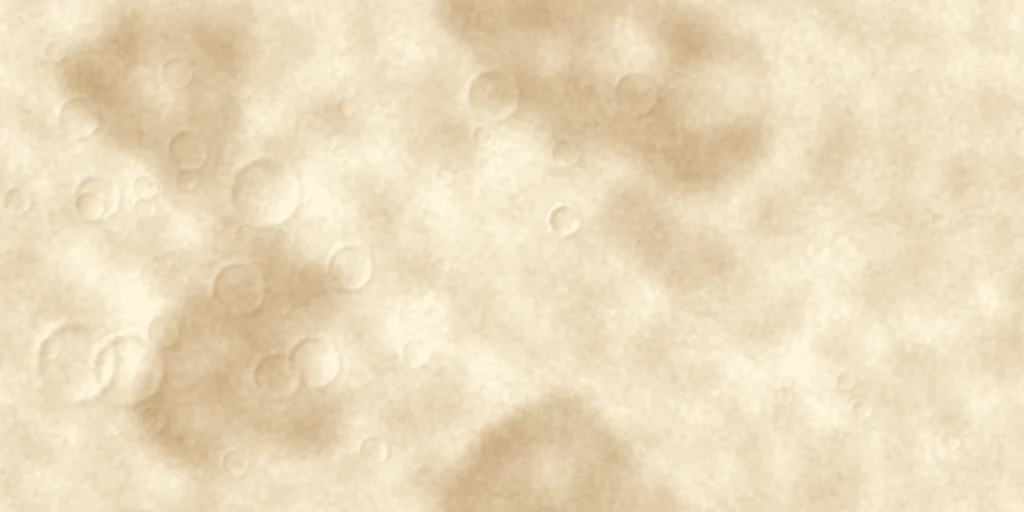
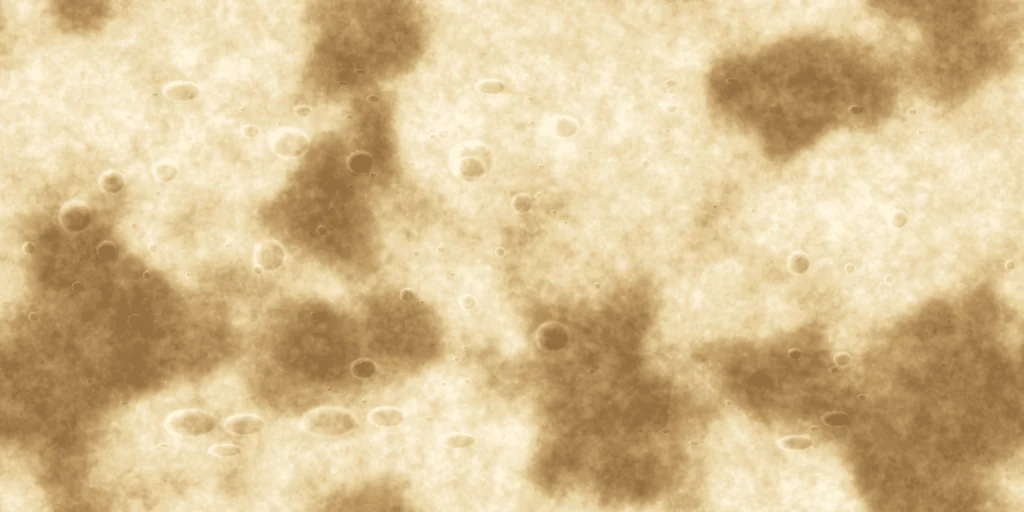
Золотая лента разматывается при прокрутке и закручивается в световую ёлку; луна — вращающийся шар
Claude-Session: https://claude.ai/code/session_0155u3ZyEfwAY5x24SDFsgDT

diff --git a/index.html b/index.html
@@ -281,6 +281,11 @@ footer{padding:36px 0 110px;font-size:14px;color:#7a525a}
 footer nav{display:flex;flex-wrap:wrap;gap:8px 22px;margin-bottom:10px}
 
 /* flying sleigh and the hidden golden goat */
+.rbn{position:fixed;left:0;top:0;pointer-events:none;z-index:-1}.rbn.f{z-index:5}
+.moon .mc{position:absolute;inset:0;width:100%;height:100%;display:block}
+.tree{position:absolute;bottom:70px;right:max(8px,calc(50% - 400px));width:clamp(116px,24vw,240px);height:clamp(240px,48vw,450px);z-index:3;pointer-events:none}
+.tree.l{right:auto;left:max(8px,calc(50% - 400px))}
+@media (max-width:700px){.moonbox .moon{transition:left .4s}.moonbox.tl .moon{left:63%}.moonbox.tr .moon{left:37%}}
 #sky{position:fixed;inset:0;width:100%;height:100%;pointer-events:none;z-index:6}
 .goat{position:absolute;left:0;top:0;width:44px;height:80px;padding:0;margin:0;border:0;background:none;cursor:pointer;z-index:3;transform-origin:22px 0;will-change:transform;-webkit-tap-highlight-color:transparent}
 .goat i{position:absolute;left:21.5px;top:0;width:1px;background:linear-gradient(#B8935A,#C9A464)}
@@ -353,6 +358,7 @@ footer nav{display:flex;flex-wrap:wrap;gap:8px 22px;margin-bottom:10px}
 </style>
 </head>
 <body>
+<canvas id="ribbonB" class="rbn" aria-hidden="true"></canvas><canvas id="ribbonF" class="rbn f" aria-hidden="true"></canvas>
 <canvas id="garland" aria-hidden="true"></canvas>
 <button class="goat" id="goat" type="button" aria-label="Секрет: золотая козочка" hidden><i></i><img src="assets/goat.webp" alt="" width="240" height="222"><svg viewBox="0 0 20 20" aria-hidden="true"><path d="M10 0Q10 10 20 10Q10 10 10 20Q10 10 0 10Q10 10 10 0Z" fill="#FFF6D6"/></svg></button>
 <header>
@@ -501,7 +507,8 @@ footer nav{display:flex;flex-wrap:wrap;gap:8px 22px;margin-bottom:10px}
   <section class="night" id="night">
     <canvas class="stars" id="stars" aria-hidden="true"></canvas>
     <div class="moonbox" aria-hidden="true">
-      <div class="moon" data-d="-.12"><i class="tex"></i></div>
+      <div class="moon" data-d="-.12"><canvas class="mc" width="320" height="320"></canvas></div>
+      <canvas class="tree" id="tree" aria-hidden="true"></canvas>
       <canvas id="moonsky"></canvas>
     </div>
     <div class="price">
@@ -951,6 +958,205 @@ var OPEN=[0, 1, 3, 5, 7, 9, 11, 13, 15, 17, 19, 21];
 
   var st=document.getElementById('sticky'), hero=document.querySelector('.hero');
   if('IntersectionObserver' in window){ new IntersectionObserver(function(es){ es.forEach(function(e){ st.classList.toggle('show',!e.isIntersecting); }); },{threshold:0}).observe(hero); }
+})();
+</script>
+<script>/* «Целый мир»: a gold satin ribbon unrolls from the gift box as you scroll, weaving behind the
+   cards and in front of the gaps, and in the night finale winds itself into a spiral tree of light.
+   Plus a moon rendered as a real rotating sphere. */
+(function(){
+  var reduce=window.matchMedia&&matchMedia('(prefers-reduced-motion: reduce)').matches;
+  var DPR=Math.min(2,window.devicePixelRatio||1);
+  var cb=document.getElementById('ribbonB'), cf=document.getElementById('ribbonF');
+  var bx=cb.getContext('2d'), fx=cf.getContext('2d');
+  var tree=document.getElementById('tree');
+  var VW=0, VH=0, X=[], Y=[], S=[], F=[], MY=[], N=0, Wd=14, head=0, lastHead=0, done=false, P=[], pending=true;
+  var FRONT=[], BACK=[];
+  (function(){ function lut(a,b,c,n){ var o=[]; for(var i=0;i<n;i++){ var t=i/(n-1), p=t<.5?t*2:(t-.5)*2, A=t<.5?a:b, B=t<.5?b:c;
+      o.push('rgb('+Math.round(A[0]+(B[0]-A[0])*p)+','+Math.round(A[1]+(B[1]-A[1])*p)+','+Math.round(A[2]+(B[2]-A[2])*p)+')'); } return o; }
+    FRONT=lut([150,108,52],[226,192,124],[255,246,218],48); BACK=lut([104,70,30],[166,126,68],[212,176,112],48); })();
+
+  function rect(el){ var r=el.getBoundingClientRect(); return {l:r.left, r:r.right, t:r.top+scrollY, b:r.bottom+scrollY, w:r.width, h:r.height}; }
+  function contentBox(sec){ var kids=sec.children, t=1e9, b=-1e9; for(var i=0;i<kids.length;i++){ var r=kids[i].getBoundingClientRect(); if(!r.height) continue; t=Math.min(t,r.top+scrollY); b=Math.max(b,r.bottom+scrollY); } return {t:t,b:b}; }
+
+  function build(){
+    VW=document.documentElement.clientWidth; VH=innerHeight;
+    [cb,cf].forEach(function(c){ c.width=VW*DPR; c.height=VH*DPR; c.style.width=VW+'px'; c.style.height=VH+'px'; });
+    bx.setTransform(DPR,0,0,DPR,0,0); fx.setTransform(DPR,0,0,DPR,0,0);
+    var gut=Math.max(0,(VW-1120)/2)+20, gx=Math.max(10,Math.min(gut*.5,90));
+    Wd=Math.max(11,Math.min(26,gut*.42));
+    var L=gx, R=VW-gx, side=L, wp=[];
+    var box=rect(document.getElementById('case'));
+    var cx=box.l+box.w/2;
+    wp.push([cx,box.b-6,0],[cx,box.b+14,0]);
+    var secs=[].slice.call(document.querySelectorAll('main > section')).filter(function(s){ return s.id!=='night'; });
+    var night=document.getElementById('night');
+    side=cx<VW/2?L:R;
+    var hero=contentBox(document.querySelector('.hero'));
+    wp.push([cx+(side-cx)*.55, box.b+34,0],[side, box.b+78,0],[side, Math.max(box.b+120,hero.b-20),0]);
+    var loopR=Math.max(18,Math.min(40,gut*.45));
+    secs.forEach(function(sec,i){
+      var cbx=contentBox(sec), next=secs[i+1]||night, nb=next===night?{t:rect(night).t+120}:contentBox(next);
+      wp.push([side,cbx.t+10,0],[side,cbx.b-10,0]);
+      var g0=cbx.b, g1=nb.t, gm=(g0+g1)/2, other=side===L?R:L, dir=side===L?1:-1;
+      wp.push([side,g0+ (g1-g0)*.18,1]);
+      if(i%2===0){ // a curl of ribbon before it crosses
+        var c0=side+dir*loopR*.9, cy0=g0+(g1-g0)*.42;
+        c0=side+dir*loopR;
+        for(var k=1;k<=10;k++){ var ph=dir>0?Math.PI-k/10*6.2832:k/10*6.2832; wp.push([c0+Math.cos(ph)*loopR, cy0+Math.sin(ph)*loopR*.8,1]); }
+      }
+      wp.push([(side+other)/2, gm+ (g1-g0)*.12,1],[other,g0+(g1-g0)*.82,1]);
+      side=other;
+    });
+    var nr=rect(night);
+    tree.classList.toggle('l',side===L); tree.parentNode.classList.toggle('tl',side===L); tree.parentNode.classList.toggle('tr',side!==L);
+    var tr=rect(tree), tb=[tr.l+tr.w/2, tr.b-tr.h*.04];
+    wp.push([side,nr.t+150,1],[side,tb[1]-40,1],[tb[0]+(side-tb[0])*.4,tb[1]+3,1],[tb[0],tb[1],1]);
+    // centripetal Catmull-Rom, then resample every 3px
+    var dense=[];
+    for(var i=0;i<wp.length-1;i++){ var p0=wp[Math.max(0,i-1)], p1=wp[i], p2=wp[i+1], p3=wp[Math.min(wp.length-1,i+2)], f=p1[2]&&p2[2]?1:0;
+      for(var s=0;s<14;s++){ var t=s/14, t2=t*t, t3=t2*t;
+        var x=.5*((2*p1[0])+(-p0[0]+p2[0])*t+(2*p0[0]-5*p1[0]+4*p2[0]-p3[0])*t2+(-p0[0]+3*p1[0]-3*p2[0]+p3[0])*t3);
+        var y=.5*((2*p1[1])+(-p0[1]+p2[1])*t+(2*p0[1]-5*p1[1]+4*p2[1]-p3[1])*t2+(-p0[1]+3*p1[1]-3*p2[1]+p3[1])*t3);
+        dense.push([x,y,f]); } }
+    dense.push(wp[wp.length-1]);
+    X=[];Y=[];S=[];F=[];MY=[]; var acc=0, px=dense[0][0], py=dense[0][1], carry=0;
+    X.push(px);Y.push(py);S.push(0);F.push(dense[0][2]);
+    for(var j=1;j<dense.length;j++){ var dx=dense[j][0]-px, dy=dense[j][1]-py, d=Math.hypot(dx,dy); if(!d) continue;
+      var u=3-carry; while(u<=d){ X.push(px+dx*u/d); Y.push(py+dy*u/d); acc+=3; S.push(acc); F.push(dense[j][2]); u+=3; }
+      carry=d-(u-3); px=dense[j][0]; py=dense[j][1]; }
+    N=X.length; var m=-1e9; for(var q=0;q<N;q++){ m=Math.max(m,Y[q]); MY.push(m); }
+    draw(true);
+  }
+
+  function headIndex(){ if(reduce) return N-1; var hy=scrollY+VH*(VW<700?.78:.72), lo=0, hi=N-1; while(lo<hi){ var md=(lo+hi+1)>>1; if(MY[md]<=hy) lo=md; else hi=md-1; } return lo; }
+
+  function quads(ctx,front,sy,shadow){
+    var top=sy-80, bot=sy+VH+80; if(shadow) ctx.beginPath();
+    for(var i=0;i<head;i++){ if(F[i]!==front) continue; var y0=Y[i], y1=Y[i+1]; if((y0<top&&y1<top)||(y0>bot&&y1>bot)) continue;
+      var dx=X[i+1]-X[i], dy=Y[i+1]-Y[i], l=Math.hypot(dx,dy)||1, nx=-dy/l, ny=dx/l, tx=dx/l*.7, ty=dy/l*.7;
+      var tw=S[i]/92, c=Math.cos(tw), hw=Wd*.5*(.16+.84*Math.abs(c)), tw2=S[i+1]/92, hw2=Wd*.5*(.16+.84*Math.abs(Math.cos(tw2)));
+      var ox=shadow?2.5:0, oy=shadow?6:0;
+      if(!shadow) ctx.beginPath(); ctx.moveTo(X[i]+nx*hw-tx+ox,y0+ny*hw-ty-sy+oy); ctx.lineTo(X[i+1]+nx*hw2+tx+ox,y1+ny*hw2+ty-sy+oy);
+      ctx.lineTo(X[i+1]-nx*hw2+tx+ox,y1-ny*hw2+ty-sy+oy); ctx.lineTo(X[i]-nx*hw-tx+ox,y0-ny*hw-ty-sy+oy); ctx.closePath();
+      if(!shadow){ var lum=.5+.5*Math.sin(tw*1.3+Math.atan2(dy,dx)*.35), k=Math.max(0,Math.min(47,Math.round(lum*47))); ctx.fillStyle=(c>0?FRONT:BACK)[k]; }
+      if(!shadow) ctx.fill(); }
+    if(shadow) ctx.fill();
+  }
+
+  function spool(ctx,sy,t){ var i=head; if(i<1||i>=N-1) return; var x=X[i], y=Y[i]-sy, r=Wd*.62, a=S[i]/r;
+    ctx.save(); ctx.translate(x,y);
+    var g=ctx.createRadialGradient(-r*.35,-r*.35,r*.1,0,0,r); g.addColorStop(0,'#fff6dc'); g.addColorStop(.55,'#d9b878'); g.addColorStop(1,'#8f6a35');
+    ctx.fillStyle=g; ctx.beginPath(); ctx.arc(0,0,r,0,6.283); ctx.fill();
+    ctx.strokeStyle='rgba(110,78,34,.55)'; ctx.lineWidth=.8; ctx.beginPath();
+    for(var k=0;k<=40;k++){ var u=k/40, rr=r*(.15+.8*u), an=a+u*12.5; ctx.lineTo(Math.cos(an)*rr,Math.sin(an)*rr); } ctx.stroke();
+    var gl=ctx.createRadialGradient(0,0,0,0,0,r*3.2); gl.addColorStop(0,'rgba(255,236,190,.55)'); gl.addColorStop(1,'rgba(255,236,190,0)');
+    ctx.fillStyle=gl; ctx.beginPath(); ctx.arc(0,0,r*3.2,0,6.283); ctx.fill();
+    ctx.restore(); }
+
+  function emit(from,to){ var n=Math.min(40,to-from); for(var k=0;k<n;k++){ var i=Math.floor(from+(to-from)*Math.random()); if(i>=N) continue;
+      P.push({x:X[i]+(Math.random()-.5)*Wd, y:Y[i]+(Math.random()-.5)*Wd, vx:(Math.random()-.5)*16, vy:-8+Math.random()*10, life:0, max:1.1+Math.random()*1.3, r:.7+Math.random()*1.8, star:Math.random()<.18, ph:Math.random()*6}); } }
+
+  var lt=0;
+  function particles(ctx,sy,t){ var dt=lt?Math.min(.05,(t-lt)/1000):.016; lt=t;
+    for(var i=P.length-1;i>=0;i--){ var p=P[i]; p.life+=dt; if(p.life>p.max){ P.splice(i,1); continue; }
+      p.vy+=22*dt; p.x+=p.vx*dt; p.y+=p.vy*dt; var a=(1-p.life/p.max)*(.55+.45*Math.sin(t/90+p.ph)), y=p.y-sy;
+      if(y<-20||y>VH+20) continue;
+      ctx.globalAlpha=Math.max(0,a);
+      if(p.star){ ctx.strokeStyle='#fff3cf'; ctx.lineWidth=1; var s=p.r*3; ctx.beginPath(); ctx.moveTo(p.x-s,y); ctx.lineTo(p.x+s,y); ctx.moveTo(p.x,y-s); ctx.lineTo(p.x,y+s); ctx.stroke(); }
+      ctx.fillStyle=i%3?'#d8b25e':'#fff1c6'; ctx.beginPath(); ctx.arc(p.x,y,p.r,0,6.283); ctx.fill(); }
+    ctx.globalAlpha=1; }
+
+  var dirty=true, raf=0;
+  function draw(force){ if(force) dirty=true; if(!raf) raf=requestAnimationFrame(frame); }
+  function frame(t){ raf=0; var sy=scrollY;
+    head=Math.max(1,headIndex());
+    if(!reduce&&head>lastHead+1) emit(lastHead,head);
+    var moved=head!==lastHead; lastHead=head;
+    if(dirty||moved){ bx.clearRect(0,0,VW,VH); bx.fillStyle='rgba(78,12,24,.07)'; quads(bx,0,sy,true); quads(bx,0,sy,false); }
+    fx.clearRect(0,0,VW,VH); fx.fillStyle='rgba(78,12,24,.07)'; quads(fx,1,sy,true); quads(fx,1,sy,false);
+    if(head<N-1&&!reduce) spool(F[head]?fx:bx,sy,t);
+    particles(fx,sy,t);
+    dirty=false;
+    if(head>=N-1&&!done){ done=true; if(window.__treeGo) window.__treeGo(); }
+    if(P.length) draw();
+  }
+
+  var rt=0; function rebuild(){ clearTimeout(rt); rt=setTimeout(build,120); }
+  addEventListener('scroll',function(){ dirty=true; draw(); },{passive:true});
+  addEventListener('resize',rebuild);
+  addEventListener('load',rebuild);
+  if(document.fonts&&document.fonts.ready) document.fonts.ready.then(rebuild);
+  if('ResizeObserver' in window){ var lastH=0; new ResizeObserver(function(){ var h=document.body.scrollHeight; if(Math.abs(h-lastH)>4){ lastH=h; rebuild(); } }).observe(document.body); }
+  build();
+})();
+
+/* spiral tree of light in the night finale */
+(function(){
+  var c=document.getElementById('tree'), x=c.getContext('2d'), DPR=Math.min(2,window.devicePixelRatio||1);
+  var reduce=window.matchMedia&&matchMedia('(prefers-reduced-motion: reduce)').matches;
+  var w=0,h=0, G=[], vis=false, pg=reduce?1:0, start=0, starT=0, raf=0;
+  function size(){ var r=c.getBoundingClientRect(); w=r.width; h=r.height; c.width=w*DPR; c.height=h*DPR; x.setTransform(DPR,0,0,DPR,0,0);
+    G=[]; var n=w<160?190:340; for(var i=0;i<n;i++){ var u=Math.pow(Math.random(),1.5); G.push({u:u, a:Math.random()*6.283, k:.72+Math.random()*.42, r:.4+Math.random()*1.5, ph:Math.random()*6.283, sp:1+Math.random()*3, st:Math.random()<.08}); } }
+  function geo(u,rot){ var base=h*.93, apex=h*.1, R=w*.45, turns=6.2, y=base-u*(base-apex), r=R*Math.pow(1-u,1.02), th=u*turns*6.283+rot;
+    return [w/2+r*Math.cos(th), y+r*Math.sin(th)*.17, Math.sin(th), r]; }
+  window.__treeGo=function(){ if(!start&&pg<1) start=performance.now(); kick(); };
+  function kick(){ if(!raf&&vis) raf=requestAnimationFrame(f); }
+  function f(t){ raf=0; if(!vis) return; x.clearRect(0,0,w,h);
+    if(start&&pg<1){ var p=Math.min(1,(t-start)/3400); pg=p<.5?2*p*p:1-Math.pow(-2*p+2,2)/2; if(pg>=1&&!starT) starT=t; }
+    if(reduce&&!starT) starT=t;
+    var rot=reduce?0:t/1000*.42;
+    x.globalCompositeOperation='lighter';
+    // light pool at the base
+    var pool=x.createRadialGradient(w/2,h*.93,0,w/2,h*.93,w*.6); pool.addColorStop(0,'rgba(255,200,120,'+(.28*Math.min(1,pg*3))+')'); pool.addColorStop(1,'rgba(255,200,120,0)');
+    x.fillStyle=pool; x.save(); x.translate(w/2,h*.93); x.scale(1,.28); x.translate(-w/2,-h*.93); x.beginPath(); x.arc(w/2,h*.93,w*.6,0,6.283); x.fill(); x.restore();
+    // the ribbon of light, back half first
+    var steps=Math.floor(560*pg);
+    for(var pass=0;pass<2;pass++){
+      for(var i=1;i<=steps;i++){ var u0=(i-1)/560, u1=i/560, A=geo(u0,rot), B=geo(u1,rot), front=B[2]>0; if((pass===0)===front) continue;
+        var wid=(1+3.4*(1-u1))*(.4+.6*Math.abs(Math.cos(u1*38))), al=front?1:.32;
+        x.strokeStyle='rgba(255,176,90,'+(.07*al)+')'; x.lineWidth=wid*6; x.beginPath(); x.moveTo(A[0],A[1]); x.lineTo(B[0],B[1]); x.stroke();
+        x.strokeStyle='rgba(255,206,140,'+(.22*al)+')'; x.lineWidth=wid*2.2; x.stroke();
+        x.strokeStyle='rgba(255,244,214,'+(.9*al)+')'; x.lineWidth=Math.max(.6,wid*.7); x.stroke(); } }
+    // glitter
+    for(var g=0;g<G.length;g++){ var q=G[g]; if(q.u>pg) continue; var base=h*.93, apex=h*.1, y=base-q.u*(base-apex), r=w*.45*Math.pow(1-q.u,1.02)*q.k, th=q.a+rot, gz=Math.sin(th);
+      var gx=w/2+r*Math.cos(th), gy=y+r*gz*.17, tw=.35+.65*Math.abs(Math.sin(t/1000*q.sp+q.ph)), al=(gz>0?1:.35)*tw;
+      x.fillStyle='rgba(255,226,160,'+al+')'; x.beginPath(); x.arc(gx,gy,q.r,0,6.283); x.fill();
+      if(q.st&&gz>0){ x.strokeStyle='rgba(255,246,220,'+(al*.8)+')'; x.lineWidth=.7; var s=q.r*4*tw; x.beginPath(); x.moveTo(gx-s,gy); x.lineTo(gx+s,gy); x.moveTo(gx,gy-s); x.lineTo(gx,gy+s); x.stroke(); } }
+    // racing spark while it winds up
+    if(pg>0&&pg<1){ var H=geo(pg,rot), hg=x.createRadialGradient(H[0],H[1],0,H[0],H[1],14); hg.addColorStop(0,'rgba(255,250,230,1)'); hg.addColorStop(1,'rgba(255,200,120,0)'); x.fillStyle=hg; x.beginPath(); x.arc(H[0],H[1],14,0,6.283); x.fill(); }
+    // star on top
+    if(starT){ var e=Math.min(1,(t-starT)/700), sc=(1-Math.pow(1-e,3))*(1+.08*Math.sin(t/420)), sx=w/2, sy=h*.07, R=Math.min(w*.11,16)*sc;
+      var sg=x.createRadialGradient(sx,sy,0,sx,sy,R*4); sg.addColorStop(0,'rgba(255,236,190,.7)'); sg.addColorStop(1,'rgba(255,200,120,0)'); x.fillStyle=sg; x.beginPath(); x.arc(sx,sy,R*4,0,6.283); x.fill();
+      x.save(); x.translate(sx,sy); x.rotate(Math.sin(t/1600)*.15); x.fillStyle='rgba(255,240,200,.95)'; x.beginPath();
+      for(var k=0;k<10;k++){ var an=-Math.PI/2+k*Math.PI/5, rr=k%2?R*.42:R; x.lineTo(Math.cos(an)*rr,Math.sin(an)*rr); } x.closePath(); x.fill(); x.restore(); }
+    x.globalCompositeOperation='source-over';
+    if(!reduce) kick(); }
+  size(); addEventListener('resize',function(){ size(); kick(); });
+  if('IntersectionObserver' in window){ new IntersectionObserver(function(es){ vis=es[0].isIntersecting; if(vis){ kick(); if(!start&&pg<1) setTimeout(function(){ if(vis&&!start) window.__treeGo(); },2600); } },{threshold:.2}).observe(c); }
+  else { vis=true; pg=1; kick(); }
+})();
+
+/* the moon as a real rotating sphere */
+(function(){
+  var c=document.querySelector('.moon .mc'); if(!c) return;
+  var x=c.getContext('2d'), N=c.width, img=new Image(), TW=0, TH=0, T=null, U=[], V=[], SH=[], IDX=[], out=x.createImageData(N,N), off=0, vis=false, last=0, lastY=scrollY, raf=0;
+  var reduce=window.matchMedia&&matchMedia('(prefers-reduced-motion: reduce)').matches;
+  img.onload=function(){ var o=document.createElement('canvas'); TW=o.width=img.width; TH=o.height=img.height; var ox=o.getContext('2d'); ox.drawImage(img,0,0); T=ox.getImageData(0,0,TW,TH).data;
+    var r=N/2, e=.38, ce=Math.cos(e), se=Math.sin(e), L=[-.5,-.42,.76], ll=Math.hypot(L[0],L[1],L[2]);
+    for(var py=0;py<N;py++) for(var px=0;px<N;px++){ var nx=(px+.5-r)/r, ny=(py+.5-r)/r, q=nx*nx+ny*ny; if(q>1) continue; var nz=Math.sqrt(1-q);
+      var xr=nx*ce-ny*se, yr=nx*se+ny*ce, lat=Math.asin(Math.max(-1,Math.min(1,-yr))), lon=Math.atan2(xr,nz);
+      IDX.push((py*N+px)*4); U.push((lon/6.2832+.5)*TW); V.push(Math.min(TH-1,Math.floor((.5-lat/Math.PI)*TH))*TW);
+      SH.push(.42+.72*Math.max(0,(nx*L[0]+ny*L[1]+nz*L[2])/ll)); }
+    render(); };
+  img.src='assets/moon.webp';
+  function render(){ if(!T) return; var d=out.data, o=Math.floor(off)%TW; if(o<0) o+=TW;
+    for(var k=0;k<IDX.length;k++){ var u=Math.floor(U[k])+o; if(u>=TW) u-=TW; var s=(V[k]+u)*4, i=IDX[k], sh=SH[k];
+      d[i]=Math.min(255,T[s]*sh); d[i+1]=Math.min(255,T[s+1]*sh); d[i+2]=Math.min(255,T[s+2]*sh); d[i+3]=255; }
+    x.putImageData(out,0,0); }
+  function f(t){ raf=0; if(!vis) return; var dt=last?Math.min(.1,(t-last)/1000):0; last=t; off+=dt*TW/34; render(); if(!reduce) raf=requestAnimationFrame(f); }
+  addEventListener('scroll',function(){ var dy=scrollY-lastY; lastY=scrollY; if(vis){ off+=dy*.35; if(reduce) render(); } },{passive:true});
+  if('IntersectionObserver' in window){ new IntersectionObserver(function(es){ vis=es[0].isIntersecting; last=0; if(vis&&!raf) raf=requestAnimationFrame(f); },{threshold:0}).observe(c); }
+  else { vis=true; raf=requestAnimationFrame(f); }
 })();
 </script>
 </body>
